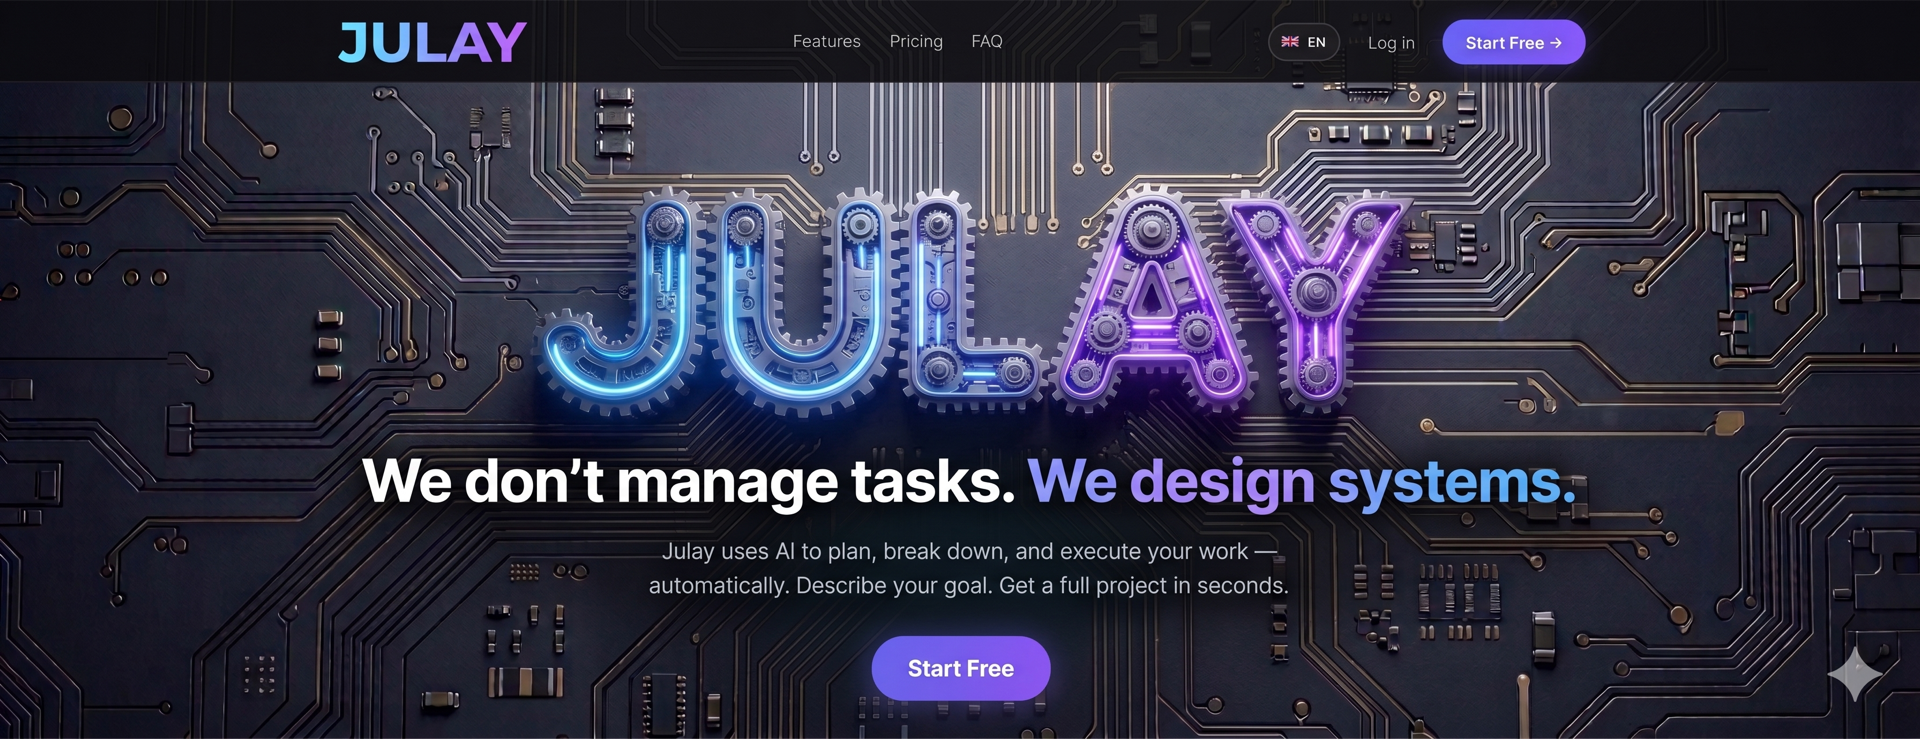
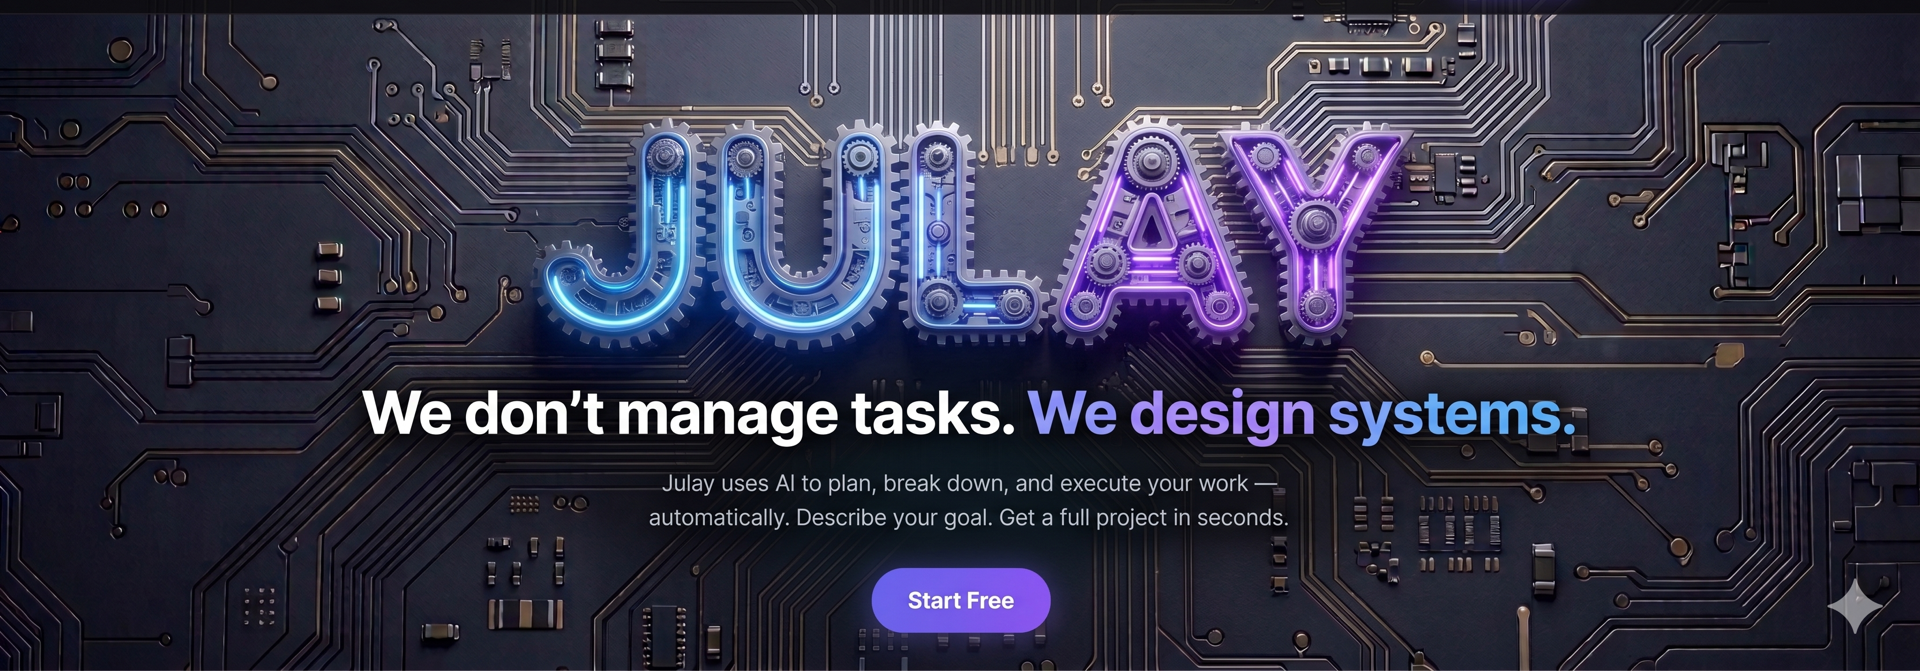
Remove baked-in navbar from hero image (cropped top 68px)

diff --git a/frontend/src/pages/Landing.jsx b/frontend/src/pages/Landing.jsx
@@ -321,7 +321,7 @@ export default function Landing() {
           position: 'absolute', inset: 0,
           backgroundImage: "url('/hero-bg.png')",
           backgroundSize: 'cover',
-          backgroundPosition: 'center 64px',
+          backgroundPosition: 'center top',
           backgroundRepeat: 'no-repeat',
         }} />
 
